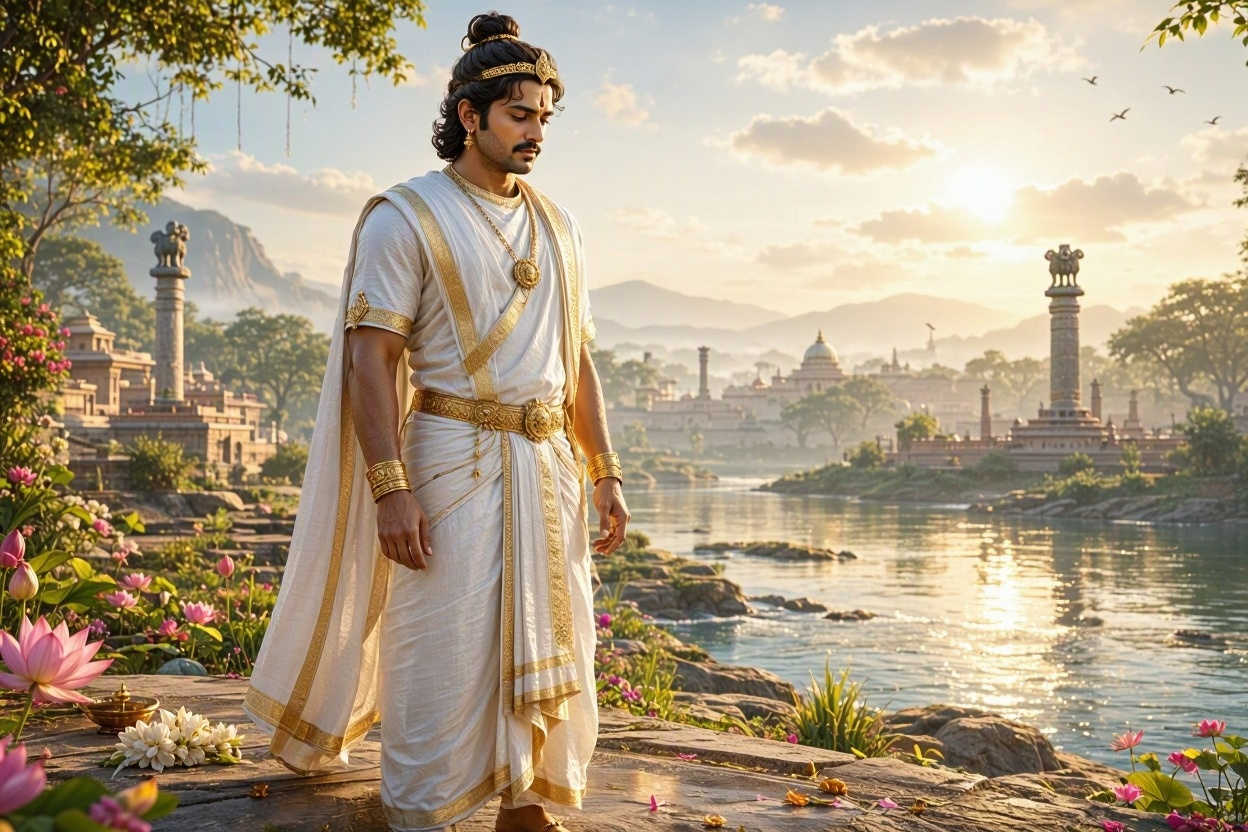
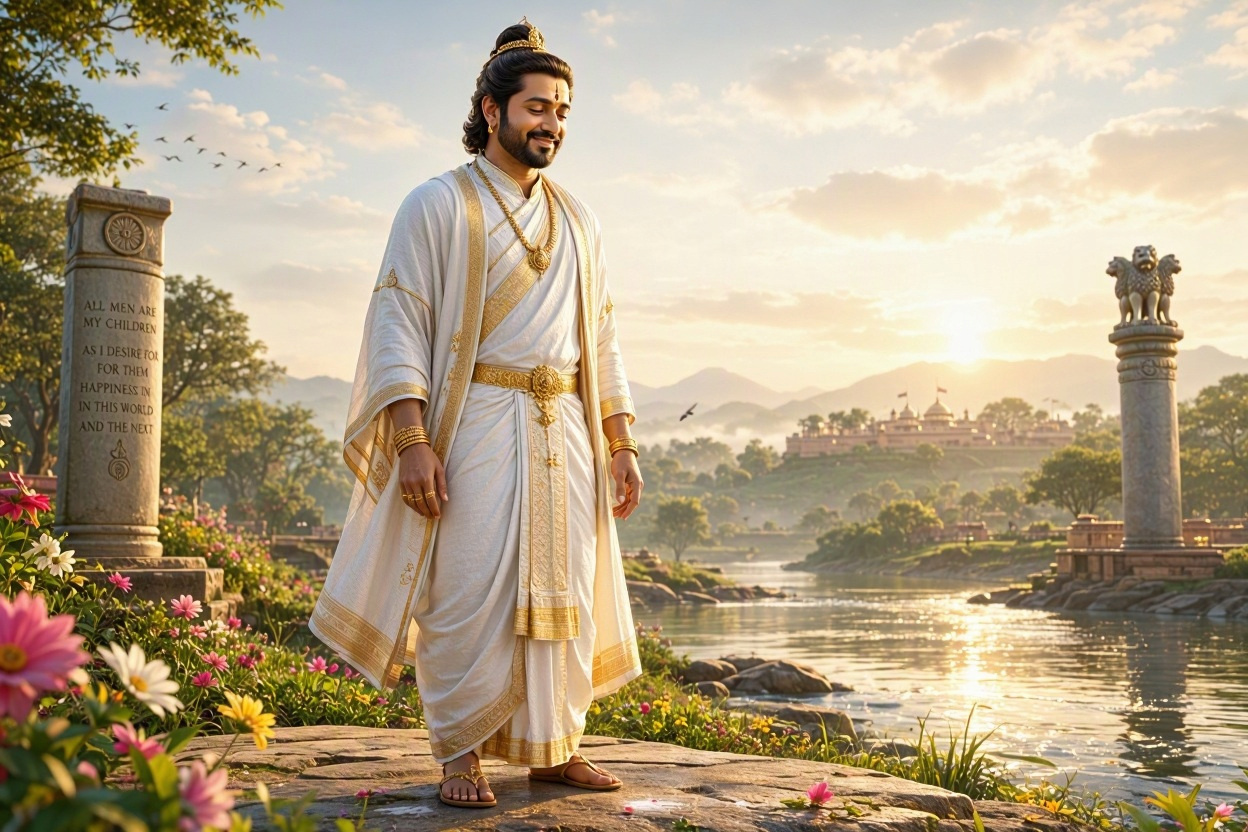
Add a better image of the calm, serene ruler in the slider

diff --git a/index.html b/index.html
@@ -309,7 +309,7 @@
     <input class="sr" type="radio" name="cmp" id="cp-peace" data-pos="4" aria-label="Show the peace">
 
     <div class="cmp-frame js-compare">
-      <img class="cmp-img peace" src="images/peace.jpg" alt="Peace after dhamma: Ashoka in white and gold robes stands calmly by a sunlit river with lotus flowers, with temples and Ashoka pillars topped by lions in the distance" draggable="false">
+      <img class="cmp-img peace" src="images/peace.jpg" alt="Peace after dhamma: a smiling Ashoka in white and gold robes stands by a sunlit river at sunrise, beside a carved stone pillar about all people being his children, with a lion-topped Ashoka pillar and a temple in the distance" draggable="false">
       <img class="cmp-img war" src="images/war.jpg" alt="War before dhamma: a weary king in armour stands on a battlefield strewn with broken weapons, shields and wheels, under a torn banner and smoky skies" draggable="false">
       <span class="cmp-tag war">Before<small>War, c. 261 BCE</small></span>
       <span class="cmp-tag peace">After<small>Dhamma</small></span>
@@ -593,6 +593,7 @@
                 <li>Why would a huge empire need roads and spies?</li>
                 <li>How do we learn about the past without photographs?</li>
               </ul>
+              <div class="note">Discuss these with your team!</div>
               <span class="pg">9</span>
             </div>
             <div class="hpage back cover">
@@ -752,7 +753,7 @@
       <div class="crest big">BG</div>
       <p class="prole">Lead Presentation Designer</p>
       <h3 id="pt-bhuvik">Bhuvik Garyali</h3>
-      <p class="pdesc">Bhuvik leads our presentation. He  decides the order in which we tell the story and makes sure our ideas are shown clearly and confidently to the judges and the class.</p>
+      <p class="pdesc">Bhuvik leads our presentation. He shapes how the slides look, decides the order in which we tell the story, and makes sure our ideas are shown clearly and confidently to the judges and the class.</p>
       <ul class="chips"><li>Slides</li><li>Story order</li><li>Delivery</li></ul>
       <div class="pnav"><a href="#person-aadvik">← Aadvik</a><a href="#person-advik">Advik →</a></div>
     </div>
